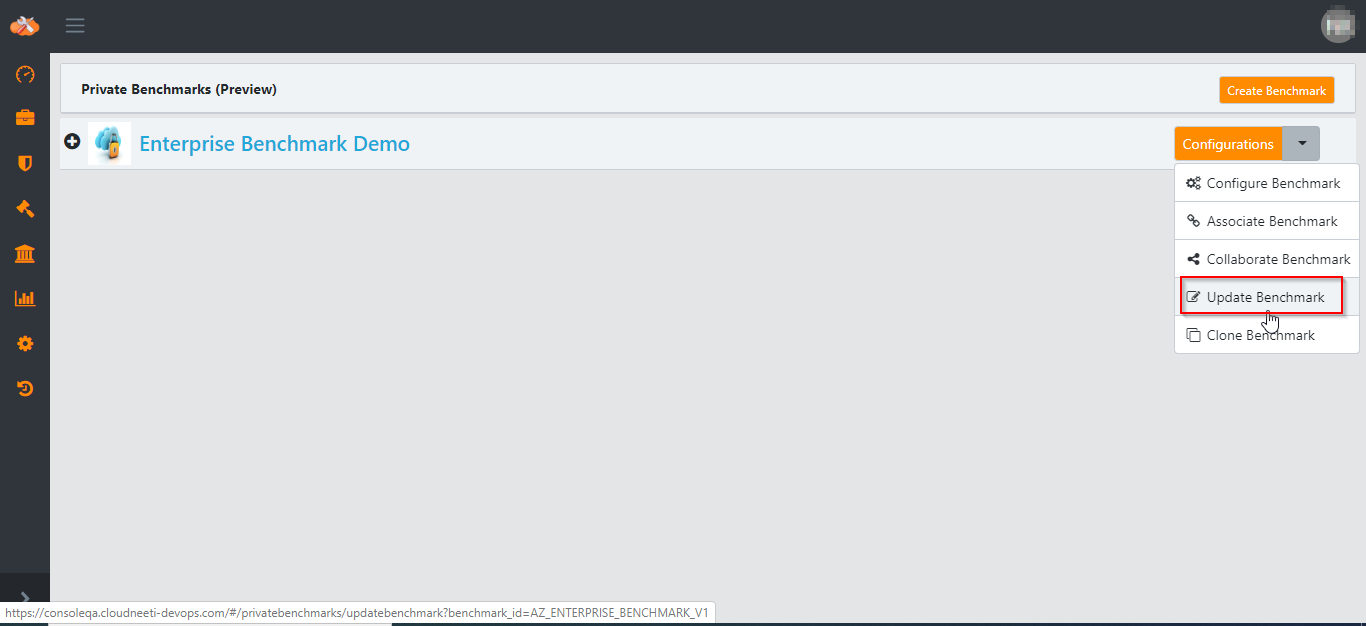
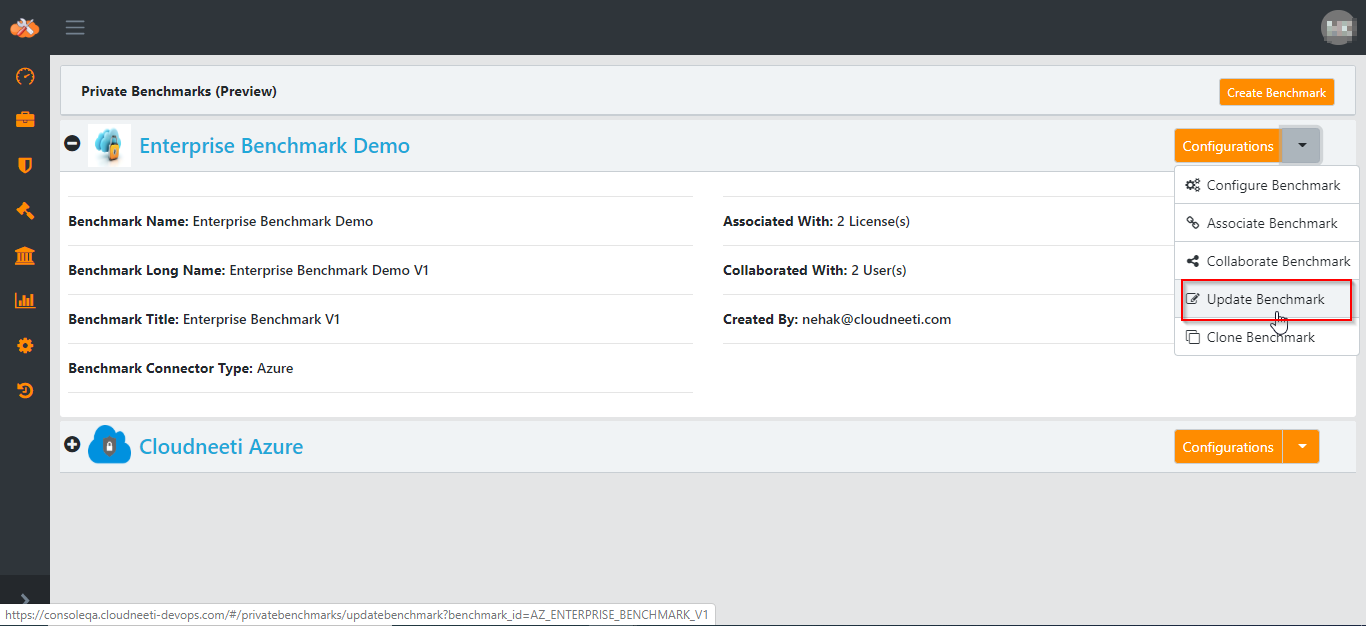
Task 13466 - Added steps for update

diff --git a/docs/administratorGuide/enterpriseComplianceBenchmark.md b/docs/administratorGuide/enterpriseComplianceBenchmark.md
@@ -27,7 +27,7 @@ Add basic details for Enterprise Benchmark.
 
     ![Configure Notifications](.././images/enterpriseBenchmark/enterpriseBenchmarkCreate.png#thumbnail)
 
-3.  Give **Name, Title, Long Name, Logo** and choose **connector type** for
+3.  Give **Name, Title, Long Name, Logo** and choose **Connector Type** for
     Benchmark to be created
 
     ![Configure Notifications](.././images/enterpriseBenchmark/enterpriseBenchmarkBasic.png#thumbnail)
@@ -154,7 +154,7 @@ scan.
 
 5. Benchmark summary page will appear on next successful scan
 
-    <!-- ![Enterprise Benchmark](.././images/enterpriseBenchmark/summary.png#thumbnail) -->
+    ![Enterprise Benchmark](.././images/enterpriseBenchmark/summary.png#thumbnail)
 
 Collaboration for Enterprise Benchmark
 --------------------------------------
@@ -186,11 +186,7 @@ Collaborated License Admins can update, configure, associate and collaborate Ent
     ![Enterprise Benchmark](.././images/enterpriseBenchmark/collaborate_3.png#thumbnail)
 
 
-
-
-
-
-<!-- Update Enterprise Benchmark
+Update Enterprise Benchmark
 ---------------------------
 
 Enterprise benchmark can be updated for basic details as well as configurations.
@@ -201,12 +197,15 @@ Enterprise benchmark can be updated for basic details as well as configurations.
 
 2. Click **Update**
 
->   **\<Steps and Screenshot Here\>**
+    ![Enterprise Benchmark](.././images/enterpriseBenchmark/update_1.png#thumbnail)
 
-3. 
+3. Update benchmark long name, title logo and **Save**
 
-### Update Enterprise Benchmark configuration 
+    ![Enterprise Benchmark](.././images/enterpriseBenchmark/update_2.png#thumbnail)
 
+
+
+<!-- ### Update Enterprise Benchmark configuration 
 
 1. Navigate to **Private Benchmark** page 
 

diff --git a/docs/userGuide/scanStatusAPI.md b/docs/userGuide/scanStatusAPI.md
@@ -1,6 +1,6 @@
 Cloudneeti offers scan API to get scan status in Cloudneeti for provided cloud account.
 
-        get https://<CLOUDNEETI API DOMAIN>/api/compliance/jobId/<JOB ID>/scanStatus
+        get https://<CLOUDNEETI API DOMAIN>/api/scan/status?jobId=<JOB ID>
 
 
 | Environment	| Values for CLOUDNEETI API DOMAIN |
